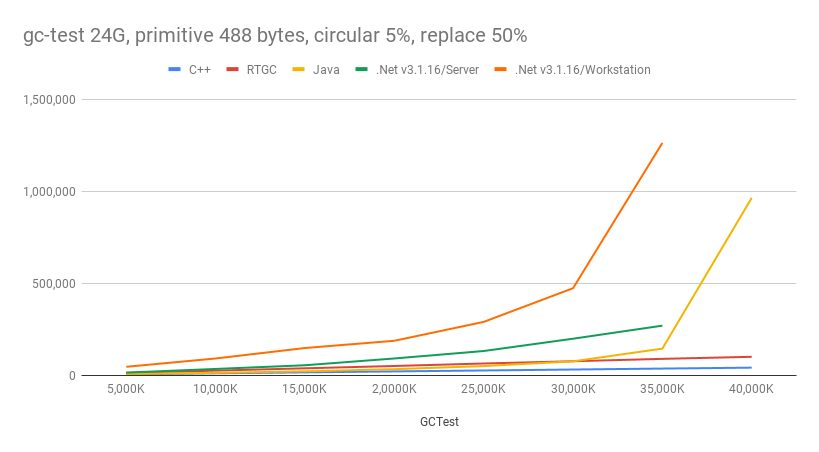
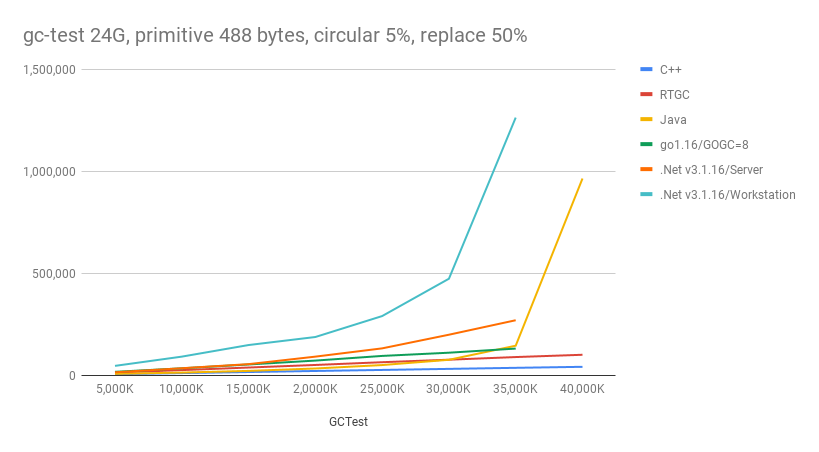
added golang

diff --git a/benchmark/go/StressTest.go b/benchmark/go/StressTest.go
@@ -179,7 +179,7 @@ func main() {
 	options.circularRefPercent, _ = strconv.Atoi(os.Args[3])
 	options.replacePercent, _ = strconv.Atoi(os.Args[4])
 
-	g_testTitle = "[" + runtime.Version() + "]"
+	g_testTitle = "[" + runtime.Version() + "/GOGC=" + os.Getenv("GOGC") + "]"
 
 	fmt.Println(g_testTitle + " StressTest")
 	fmt.Println(" - Base payload: " + strconv.Itoa(options.basePayload) + "k nodes")

diff --git a/src/GCRuntime.cpp b/src/GCRuntime.cpp
@@ -201,6 +201,7 @@ void GarbageProcessor::publishInstance(GCObject* obj) {
 void* GCArray::alloc_internal(int length, int item_size) {
     int size = length * item_size;
     if (size > 200 * 1024) {
+        // max-allocation size in 32bit-pointer : 256M bytes.
         void* ptr = rtgc_malloc(200 * 1024);
         void* ptr2 = rtgc_realloc(ptr, size);
         assert(ptr == ptr2);

diff --git a/README.md b/README.md
@@ -27,13 +27,14 @@ It is based on a reference counting algorithm. However, unlike traditional refer
 ### Some benchmark results
 ```
 # GCTest mem: 8G, min-payload: 2000k primitive: 512 bytes, circular ref 5%, replace 50%
-> ./gc-test all 8 2000 512 5 50
+> ./benchmark/gc-test all 8 2000 512 5 50
 ```
 | Payroad          |  2,000K |  4,000K |  6,000K |  8,000K | 10,000K | 12,000K |	
 |:----------------:|--------:|--------:|--------:|--------:|--------:|--------:|
-| C++	           |   1,735 |   3,702 |   4,947 |   6,626 |   8,173 |   9,876 |	
+| C++	             |   1,735 |   3,702 |   4,947 |   6,626 |   8,173 |   9,876 |	
 | RTGC             |   3,474 |   6,667 |  10,023 |  13,712 |  16,639 |  19,775 |	
 | Java             |   2,616 |   6,591 |  11,702 |  20,689 |  45,838 | 255,814 |	
+| go1.16.5/GOGC=15 |   3,753 |   7,483 |  11,653 |  15,913 |  20,929 |    #OOM |
 | .Net Server      |   4,419 |   9,894 |  24,470 |  44,433 | 129,568 |    #OOM |
 | .Net Workstation |  12,913 |  24,885 |  39,591 |  62,130 | 126,266 |    #OOM |
 
@@ -41,13 +42,14 @@ It is based on a reference counting algorithm. However, unlike traditional refer
 <br>
 ```
 # GCTest mem: 24G, min-payload: 5000k primitive: 488 bytes, circular ref 5%, replace 50%
-> ./gc-test all 24 5000 488 5 50
+> ./benchmark/gc-test all 24 5000 488 5 50
 ```
 | Payroad          |   5,000K |  10,000K |  15,000K |  20,000K |  25,000K |  30,000K |  35,000K |  40,000K |
 |:----------------:|---------:|---------:|---------:|---------:|---------:|---------:|---------:|---------:|
 | C++              |    5,587 |   11,376 |   16,515 |   21,688 |   26,735 |   31,927 |   37,096 |   42,060 |
 | RTGC             |   13,573 |   25,934 |   38,543 |   51,126 |   64,598 |   76,928 |   89,851 |  101,054 | 
 | Java             |    7,660 |   13,844 |   22,077 |   33,835 |   50,666 |   76,418 |  145,476 |  964,376 |
+| go1.16/GOGC=8    |   17,541 |   34,713 |   53,518 |   72,563 |   95,399 |  111,164 |  131,433 |     #OOM |
 | .Net Server      |   15,256 |   35,079 |   55,125 |   91,927 |  132,418 |  199,271 |  270,200 |     #OOM |
 | .Net Workstation |   46,698 |   91,915 |  148,716 |  188,042 |  290,602 |  473,526 |1,262,806 |     #OOM |
 

diff --git a/benchmark/README.md b/benchmark/README.md
@@ -18,7 +18,7 @@ Set docker memory >= 8G
 ./gc-test all MEM_SIZE PAYLOAD PRIMITIVE_BYTES CIRCULAR_REF% REPLACE%
 - MEM_SIZE : Heap memory size / Giga. (It must be less or equal to docker memory.)
 - PAYLOAD : Minimum number of stress test nodes / 1024
-- PRIMITIVE_BYTES : Primitive data size per node
+- PRIMITIVE_BYTES : Primitive data size per node include text and images
 - CIRCULAR_REF% : Percentage of cirularly referenced nodes
 - REPLACE% : Percentage of replaceable nodes
 ```
